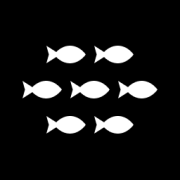
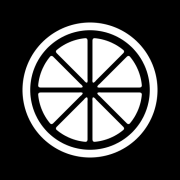
Rename the product to Satsuma
All user-facing Shoal strings renamed, app icon swapped to the
citrus-slice mark, favicons/apple-touch-icon rebuilt from the satsuma
brand kit, and the agent plugin banner/wordmark regenerated. The
plugin slug stays shoal-agent so already-installed copies still work.

Generated with [Devin](https://devin.ai)

diff --git a/resources/js/components/app-logo-icon.tsx b/resources/js/components/app-logo-icon.tsx
@@ -3,13 +3,20 @@ import type { SVGAttributes } from 'react';
 export default function AppLogoIcon(props: SVGAttributes<SVGElement>) {
     return (
         <svg {...props} viewBox="0 0 256 256" xmlns="http://www.w3.org/2000/svg">
-            <path d="M66 65.0418L80 73.9405C92.25 61.4823 109.75 61.4823 122 77.5C109.75 93.5177 92.25 93.5177 80 81.0595L66 89.9582L69.5 77.5L66 65.0418Z" fill="currentColor" />
-            <path d="M134 65.0418L148 73.9405C160.25 61.4823 177.75 61.4823 190 77.5C177.75 93.5177 160.25 93.5177 148 81.0595L134 89.9582L137.5 77.5L134 65.0418Z" fill="currentColor" />
-            <path d="M32 115.042L46 123.941C58.25 111.482 75.75 111.482 88 127.5C75.75 143.518 58.25 143.518 46 131.059L32 139.958L35.5 127.5L32 115.042Z" fill="currentColor" />
-            <path d="M100 115.042L114 123.941C126.25 111.482 143.75 111.482 156 127.5C143.75 143.518 126.25 143.518 114 131.059L100 139.958L103.5 127.5L100 115.042Z" fill="currentColor" />
-            <path d="M168 115.042L182 123.941C194.25 111.482 211.75 111.482 224 127.5C211.75 143.518 194.25 143.518 182 131.059L168 139.958L171.5 127.5L168 115.042Z" fill="currentColor" />
-            <path d="M66 165.042L80 173.941C92.25 161.482 109.75 161.482 122 177.5C109.75 193.518 92.25 193.518 80 181.059L66 189.958L69.5 177.5L66 165.042Z" fill="currentColor" />
-            <path d="M134 165.042L148 173.941C160.25 161.482 177.75 161.482 190 177.5C177.75 193.518 160.25 193.518 148 181.059L134 189.958L137.5 177.5L134 165.042Z" fill="currentColor" />
+            <path
+                d="M224 128C224 102.539 213.886 78.1212 195.882 60.1177C177.879 42.1143 153.461 32 128 32C102.539 32 78.1212 42.1143 60.1177 60.1177C42.1143 78.1212 32 102.539 32 128C32 153.461 42.1143 177.879 60.1177 195.882C78.1212 213.886 102.539 224 128 224C153.461 224 177.879 213.886 195.882 195.882C213.886 177.879 224 153.461 224 128ZM213 128C213 105.457 204.045 83.8365 188.104 67.8959C172.163 51.9553 150.543 43 128 43C105.457 43 83.8365 51.9553 67.8959 67.8959C51.9553 83.8365 43 105.457 43 128C43 150.543 51.9553 172.163 67.8959 188.104C83.8365 204.045 105.457 213 128 213C150.543 213 172.163 204.045 188.104 188.104C204.045 172.163 213 150.543 213 128Z"
+                fillRule="evenodd"
+                clipRule="evenodd"
+                fill="currentColor"
+            />
+            <path d="M131.5 112.387V58.0876C131.5 55.4177 132.607 54.1602 134.822 54.3151C149.689 55.6915 163.793 61.5335 175.279 71.0733C176.955 72.5296 176.849 74.2017 174.961 76.0896L136.565 114.485C132.641 119.184 130.953 118.484 131.5 112.387Z" fill="currentColor" />
+            <path d="M141.515 119.435L179.91 81.0393C181.798 79.1514 183.47 79.0452 184.927 80.7205C194.467 92.2069 200.308 106.311 201.685 121.178C201.84 123.393 200.582 124.5 197.912 124.5H143.613C137.516 125.047 136.816 123.359 141.515 119.435Z" fill="currentColor" />
+            <path d="M143.613 131.5H197.912C200.582 131.5 201.84 132.607 201.685 134.822C200.308 149.689 194.467 163.793 184.927 175.279C183.47 176.955 181.798 176.849 179.91 174.961L141.515 136.565C136.816 132.641 137.516 130.953 143.613 131.5Z" fill="currentColor" />
+            <path d="M136.565 141.515L174.961 179.91C176.849 181.798 176.955 183.47 175.279 184.927C163.793 194.467 149.689 200.308 134.822 201.685C132.607 201.84 131.5 200.582 131.5 197.912V143.613C130.953 137.516 132.641 136.816 136.565 141.515Z" fill="currentColor" />
+            <path d="M124.5 143.613V197.912C124.5 200.582 123.393 201.84 121.178 201.685C106.311 200.308 92.2069 194.467 80.7205 184.927C79.0452 183.47 79.1514 181.798 81.0393 179.91L119.435 141.515C123.359 136.816 125.047 137.516 124.5 143.613Z" fill="currentColor" />
+            <path d="M114.485 136.565L76.0896 174.961C74.2017 176.849 72.5296 176.955 71.0733 175.279C61.5335 163.793 55.6915 149.689 54.3151 134.822C54.1602 132.607 55.4177 131.5 58.0876 131.5H112.387C118.484 130.953 119.184 132.641 114.485 136.565Z" fill="currentColor" />
+            <path d="M112.387 124.5H58.0876C55.4177 124.5 54.1602 123.393 54.3151 121.178C55.6915 106.311 61.5335 92.2069 71.0733 80.7205C72.5296 79.0452 74.2017 79.1514 76.0896 81.0393L114.485 119.435C119.184 123.359 118.484 125.047 112.387 124.5Z" fill="currentColor" />
+            <path d="M119.435 114.485L81.0393 76.0896C79.1514 74.2017 79.0452 72.5296 80.7205 71.0733C92.2069 61.5335 106.311 55.6915 121.178 54.3151C123.393 54.1602 124.5 55.4177 124.5 58.0876V112.387C125.047 118.484 123.359 119.184 119.435 114.485Z" fill="currentColor" />
         </svg>
     );
 }

diff --git a/resources/js/pages/welcome.tsx b/resources/js/pages/welcome.tsx
@@ -41,7 +41,7 @@ export default function Welcome() {
 
     return (
         <>
-            <Head title="Shoal — WordPress management" />
+            <Head title="Satsuma — WordPress management" />
             <div className="dark relative min-h-screen bg-background text-foreground">
                 <div
                     className="pointer-events-none absolute inset-0"
@@ -56,7 +56,7 @@ export default function Welcome() {
                         <div className="flex items-center gap-2.5">
                             <AppLogoIcon className="size-7 text-primary" />
                             <span className="text-sm font-semibold tracking-tight">
-                                Shoal
+                                Satsuma
                             </span>
                         </div>
                         <nav className="flex items-center gap-2">
@@ -87,7 +87,7 @@ export default function Welcome() {
                                 </span>
                             </h1>
                             <p className="max-w-xl text-balance text-base text-muted-foreground md:text-lg">
-                                Shoal keeps track of versions, plugins and
+                                Satsuma keeps track of versions, plugins and
                                 updates across every site you manage — so
                                 nothing drifts out of date unnoticed.
                             </p>
@@ -132,7 +132,7 @@ export default function Welcome() {
                     </main>
 
                     <footer className="mx-auto flex w-full max-w-6xl items-center justify-between border-t border-border px-6 py-6 text-xs text-muted-foreground">
-                        <span>Shoal</span>
+                        <span>Satsuma</span>
                         <nav className="flex items-center gap-4">
                             <Link
                                 href="/privacy"

diff --git a/resources/js/pages/sites/show.tsx b/resources/js/pages/sites/show.tsx
@@ -338,7 +338,7 @@ function AgentSetupCard({
             <CardHeader>
                 <CardTitle>Agent Setup</CardTitle>
                 <CardDescription>
-                    Connect the Shoal agent plugin on {siteUrl} so scans can
+                    Connect the Satsuma agent plugin on {siteUrl} so scans can
                     reach this site.
                 </CardDescription>
             </CardHeader>
@@ -352,7 +352,7 @@ function AgentSetupCard({
                                 href="/agent-plugin/download"
                                 className="inline-flex items-center gap-1 font-medium text-foreground underline underline-offset-4"
                             >
-                                Shoal agent plugin (.zip){pluginVersion ? ` v${pluginVersion}` : ''}
+                                Satsuma agent plugin (.zip){pluginVersion ? ` v${pluginVersion}` : ''}
                                 <Download />
                             </a>{' '}
                             and install it on the WordPress site via
@@ -363,7 +363,7 @@ function AgentSetupCard({
                         <span className="font-medium text-foreground">2.</span>
                         <span>
                             Activate it, then paste the token below into{' '}
-                            <code>Settings → Shoal Agent</code> in the site's
+                            <code>Settings → Satsuma Agent</code> in the site's
                             wp-admin.
                         </span>
                     </li>

diff --git a/resources/js/pages/legal/privacy.tsx b/resources/js/pages/legal/privacy.tsx
@@ -6,7 +6,7 @@ export default function Privacy() {
             <section>
                 <h2>Overview</h2>
                 <p>
-                    Shoal is a service for managing WordPress sites. This
+                    Satsuma is a service for managing WordPress sites. This
                     policy describes what information we collect when you use
                     the service, why we collect it, and how it is handled.
                 </p>
@@ -21,7 +21,7 @@ export default function Privacy() {
                 </p>
                 <p>
                     <strong>Site data.</strong> For each site you connect, the
-                    Shoal agent reports technical inventory: the site URL,
+                    Satsuma agent reports technical inventory: the site URL,
                     WordPress and PHP versions, and the installed plugins and
                     themes with their versions. Scans only run when you
                     request them or on a schedule you configure.
@@ -67,7 +67,7 @@ export default function Privacy() {
                 <h2>Contact</h2>
                 <p>
                     Questions about this policy can be sent to
-                    privacy@shoal.app.
+                    privacy@satsuma.app.
                 </p>
             </section>
         </LegalPage>

diff --git a/resources/js/components/create-site-dialog.tsx b/resources/js/components/create-site-dialog.tsx
@@ -44,7 +44,7 @@ export function CreateSiteDialog({ clients, open, onOpenChange, trigger }: Props
                 <DialogHeader>
                     <DialogTitle>Add Site</DialogTitle>
                     <DialogDescription>
-                        Connect a WordPress site with the Shoal agent plugin.
+                        Connect a WordPress site with the Satsuma agent plugin.
                     </DialogDescription>
                 </DialogHeader>
                 <Form {...SiteController.store.form()} className="flex flex-col gap-6">
@@ -107,7 +107,7 @@ export function CreateSiteDialog({ clients, open, onOpenChange, trigger }: Props
                                         placeholder="Leave blank to auto-generate"
                                     />
                                     <FieldDescription>
-                                        Set this token in the Shoal agent plugin on the
+                                        Set this token in the Satsuma agent plugin on the
                                         WordPress site.
                                     </FieldDescription>
                                     <InputError message={errors.api_token} />

diff --git a/resources/js/components/legal-page.tsx b/resources/js/components/legal-page.tsx
@@ -14,7 +14,7 @@ export function LegalPage({
 }) {
     return (
         <>
-            <Head title={`${title} — Shoal`} />
+            <Head title={`${title} — Satsuma`} />
             <div className="dark relative min-h-screen bg-background text-foreground">
                 <div
                     className="pointer-events-none absolute inset-0"
@@ -29,7 +29,7 @@ export function LegalPage({
                         <Link href={home()} className="flex items-center gap-2.5">
                             <AppLogoIcon className="size-6 text-primary" />
                             <span className="text-sm font-semibold tracking-tight">
-                                Shoal
+                                Satsuma
                             </span>
                         </Link>
                         <Link

diff --git a/resources/js/pages/legal/cookies.tsx b/resources/js/pages/legal/cookies.tsx
@@ -6,7 +6,7 @@ export default function Cookies() {
             <section>
                 <h2>What we use</h2>
                 <p>
-                    Shoal only uses cookies that are strictly necessary to
+                    Satsuma only uses cookies that are strictly necessary to
                     run the application. We do not use advertising or
                     analytics trackers.
                 </p>
@@ -50,7 +50,7 @@ export default function Cookies() {
                 <h2>Contact</h2>
                 <p>
                     Questions about this policy can be sent to
-                    privacy@shoal.app.
+                    privacy@satsuma.app.
                 </p>
             </section>
         </LegalPage>

diff --git a/resources/js/pages/settings/organization.tsx b/resources/js/pages/settings/organization.tsx
@@ -203,7 +203,7 @@ function AddMemberForm() {
                             </Button>
                         </div>
                         <FieldDescription>
-                            The user must already have a Shoal account.
+                            The user must already have a Satsuma account.
                         </FieldDescription>
                         <InputError message={errors.email} />
                     </Field>

diff --git a/wp-agent/shoal-agent.php b/wp-agent/shoal-agent.php
@@ -1,10 +1,10 @@
 <?php
 /**
- * Plugin Name: Shoal Agent
- * Description: Companion REST agent for the Shoal WordPress management platform. Exposes read-only system info secured by a bearer token.
+ * Plugin Name: Satsuma Agent
+ * Description: Connects this site to Satsuma for inventory scans, update tracking and monitoring.
  * Version: 0.7.0
  * Requires PHP: 7.4
- * Author: Shoal
+ * Author: Satsuma
  * Text Domain: shoal-agent
  */
 
@@ -170,8 +170,8 @@ add_action(
     'admin_menu',
     function () {
         add_options_page(
-            __('Shoal Agent', 'shoal-agent'),
-            __('Shoal Agent', 'shoal-agent'),
+            __('Satsuma Agent', 'shoal-agent'),
+            __('Satsuma Agent', 'shoal-agent'),
             'manage_options',
             'shoal-agent',
             'shoal_agent_render_settings_page'
@@ -211,14 +211,14 @@ function shoal_agent_render_settings_page(): void
         <div style="margin:20px 0 0;">
             <img src="<?php echo esc_url($assets.'banner-772x250.png'); ?>"
                  srcset="<?php echo esc_url($assets.'banner-1544x500.png'); ?> 2x"
-                 alt="<?php esc_attr_e('Shoal — WordPress fleet management', 'shoal-agent'); ?>"
+                 alt="<?php esc_attr_e('Satsuma — WordPress fleet management', 'shoal-agent'); ?>"
                  style="width:100%;height:auto;display:block;border-radius:8px;" />
         </div>
 
         <div style="margin-top:24px;">
             <div style="background:#fff;border:1px solid #dcdcde;border-radius:8px;padding:24px;max-width:640px;">
-                <h2 style="margin-top:0;"><?php esc_html_e('Connect this site to Shoal', 'shoal-agent'); ?></h2>
-                <p><?php esc_html_e('Paste the API token generated for this site in your Shoal dashboard (site page → Agent Setup).', 'shoal-agent'); ?></p>
+                <h2 style="margin-top:0;"><?php esc_html_e('Connect this site to Satsuma', 'shoal-agent'); ?></h2>
+                <p><?php esc_html_e('Paste the API token generated for this site in your Satsuma dashboard (site page → Agent Setup).', 'shoal-agent'); ?></p>
 
                 <?php if ($connected) : ?>
                     <p>
@@ -262,7 +262,7 @@ function shoal_agent_render_settings_page(): void
                                             $masked
                                         ));
                                     } else {
-                                        esc_html_e('No token stored yet — scans from Shoal will be rejected until one is set.', 'shoal-agent');
+                                        esc_html_e('No token stored yet — scans from Satsuma will be rejected until one is set.', 'shoal-agent');
                                     }
                                     ?>
                                 </p>

diff --git a/app/Notifications/SiteOffline.php b/app/Notifications/SiteOffline.php
@@ -26,9 +26,9 @@ class SiteOffline extends Notification implements ShouldQueue
         return (new MailMessage)
             ->subject("{$this->site->name} is offline")
             ->greeting("{$this->site->name} is offline")
-            ->line("Shoal could not reach {$this->site->url} during its last connection check.")
+            ->line("Satsuma could not reach {$this->site->url} during its last connection check.")
             ->line('Possible causes: the site is down, the agent plugin is inactive, or the stored token no longer matches.')
-            ->action('Open the site in Shoal', url("/sites/{$this->site->id}"));
+            ->action('Open the site in Satsuma', url("/sites/{$this->site->id}"));
     }
 
     public function toDatabase(object $notifiable): array

diff --git a/app/Notifications/CriticalVulnerabilitiesFound.php b/app/Notifications/CriticalVulnerabilitiesFound.php
@@ -46,7 +46,7 @@ class CriticalVulnerabilitiesFound extends Notification implements ShouldQueue
 
         return $mail
             ->line('Update the affected components or plan a patch window.')
-            ->action('Open the site in Shoal', url("/sites/{$this->site->id}"));
+            ->action('Open the site in Satsuma', url("/sites/{$this->site->id}"));
     }
 
     public function toDatabase(object $notifiable): array

diff --git a/docs/ROADMAP.md b/docs/ROADMAP.md
@@ -1,4 +1,4 @@
-# Shoal — Roadmap
+# Satsuma — Roadmap
 
 Self-hosted WordPress management platform. Laravel + Inertia/React (main app) + Filament (internal ops panel only).
 
